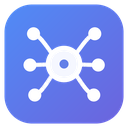
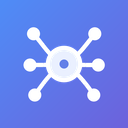
完善

diff --git a/src/main.rs b/src/main.rs
@@ -2309,7 +2309,7 @@ impl eframe::App for PureMapApp {
                 .id(egui::Id::new("about_window"))
                 .anchor(Align2::CENTER_CENTER, Vec2::ZERO)
                 .title_bar(false)
-                .fixed_size(Vec2::new(440.0, 300.0))
+                .fixed_size(Vec2::new(440.0, 380.0))
                 .collapsible(false)
                 .resizable(false)
                 .open(&mut open)
@@ -2359,6 +2359,8 @@ impl eframe::App for PureMapApp {
                         egui::Layout::top_down(egui::Align::Center)
                             .with_main_align(egui::Align::Center),
                         |ui| {
+                            about_icon(ui);
+                            ui.add_space(14.0);
                             ui.label(egui::RichText::new("PureMap").size(22.0));
                             ui.add_space(6.0);
                             ui.label(
@@ -2366,7 +2368,22 @@ impl eframe::App for PureMapApp {
                                     .size(16.0),
                             );
                             ui.add_space(12.0);
+                            ui.label(
+                                egui::RichText::new("简单、纯粹、离线的思维导图工具。")
+                                    .size(13.5)
+                                    .weak(),
+                            );
+                            ui.add_space(4.0);
+                            ui.label(
+                                egui::RichText::new(
+                                    "放射状画布 · 键盘编辑 · 自动布局\nMarkdown 大纲导入导出 · 离线使用",
+                                )
+                                .size(12.5)
+                                .weak(),
+                            );
+                            ui.add_space(16.0);
                             ui.label(egui::RichText::new("By Mr.Ben").size(16.0));
+                            ui.add_space(2.0);
                             ui.hyperlink_to(
                                 egui::RichText::new("https://mrben.net").size(16.0),
                                 "https://mrben.net",
@@ -2397,6 +2414,60 @@ impl eframe::App for PureMapApp {
 }
 
 #[cfg(target_os = "macos")]
+/// Miniature of the app icon, painted for the About window (same
+/// idea as SmartReName's): blue-violet rounded square, white center
+/// node, six curved branches to six white nodes.
+fn about_icon(ui: &mut egui::Ui) {
+    let (rect, _) = ui.allocate_exact_size(egui::Vec2::splat(88.0), egui::Sense::hover());
+    let p = ui.painter();
+    p.rect_filled(
+        rect,
+        egui::CornerRadius::same(20),
+        egui::Color32::from_rgb(0x5F, 0x74, 0xE6),
+    );
+    let center = rect.center();
+    // Soft halo behind the root node, like the SVG icon.
+    p.circle_filled(
+        center,
+        21.0,
+        egui::Color32::from_rgba_unmultiplied(255, 255, 255, 46),
+    );
+    let white = egui::Color32::from_rgba_unmultiplied(255, 255, 255, 205);
+    let nodes = [
+        egui::Vec2::new(-21.0, -21.0),
+        egui::Vec2::new(-23.0, 1.0),
+        egui::Vec2::new(-20.0, 21.0),
+        egui::Vec2::new(21.0, -21.0),
+        egui::Vec2::new(24.0, 1.0),
+        egui::Vec2::new(20.0, 21.0),
+    ];
+    for n in nodes {
+        let to = center + n;
+        // Cubic bezier from the center to the node, bowed like the
+        // icon's branches; sampled into a polyline.
+        let cp1 = center + egui::Vec2::new(n.x * 0.45, n.y * 0.05);
+        let cp2 = to + egui::Vec2::new(-n.x * 0.05, -n.y * 0.45);
+        let pts: Vec<egui::Pos2> = (0..=20)
+            .map(|i| {
+                let t = i as f32 / 20.0;
+                let u = 1.0 - t;
+                let a = u * u * u;
+                let b = 3.0 * u * u * t;
+                let c = 3.0 * u * t * t;
+                let d = t * t * t;
+                egui::Pos2::new(
+                    a * center.x + b * cp1.x + c * cp2.x + d * to.x,
+                    a * center.y + b * cp1.y + c * cp2.y + d * to.y,
+                )
+            })
+            .collect();
+        p.add(egui::Shape::line(pts, egui::Stroke::new(3.0_f32, white)));
+        p.circle_filled(to, 4.6, egui::Color32::WHITE);
+    }
+    p.circle_filled(center, 13.5, egui::Color32::WHITE);
+    p.circle_filled(center, 5.0, egui::Color32::from_rgb(0x63, 0x80, 0xE8));
+}
+
 fn add_native_menu_command(
     submenu: &muda::Submenu,
     id: &str,
